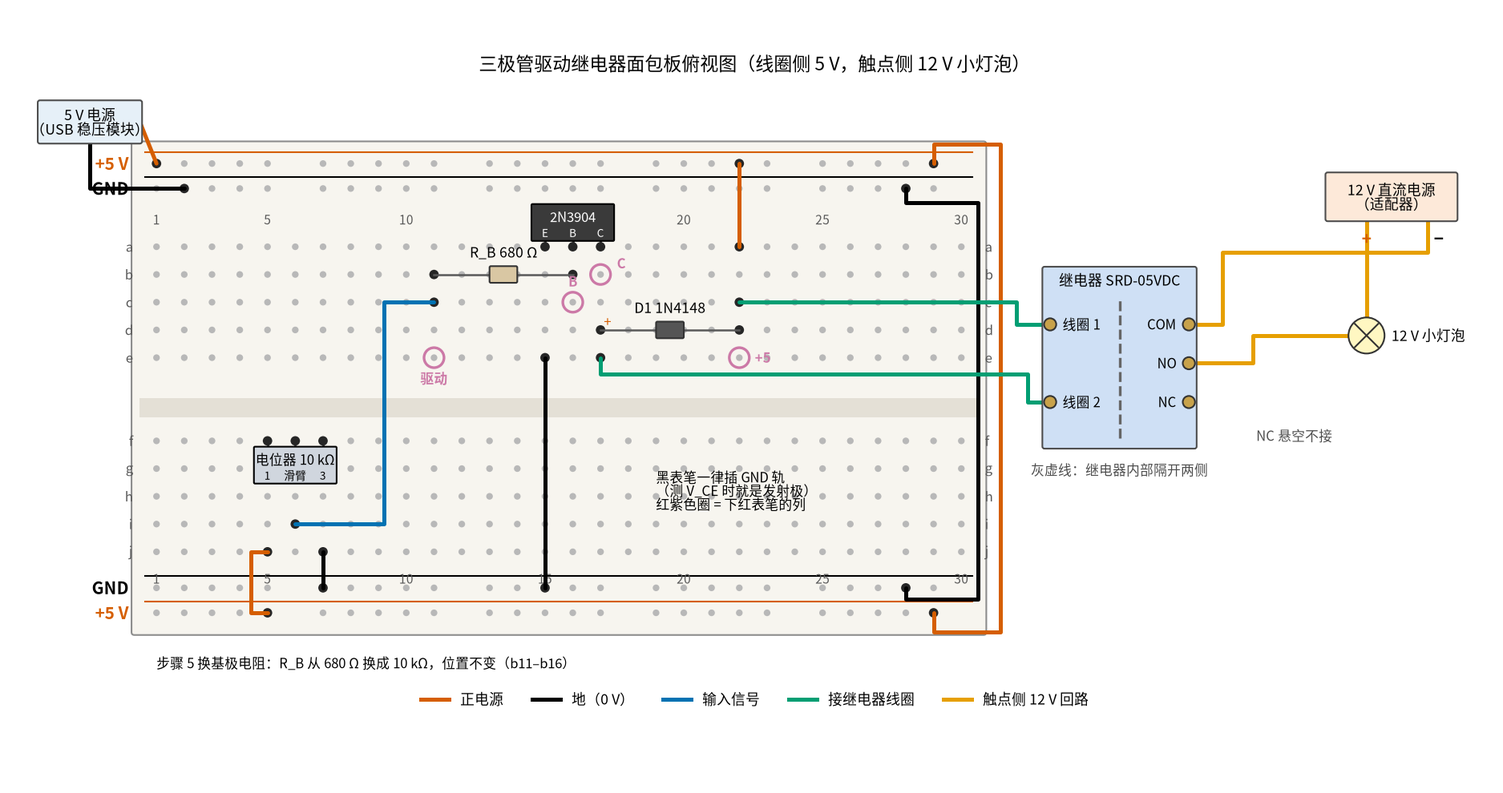
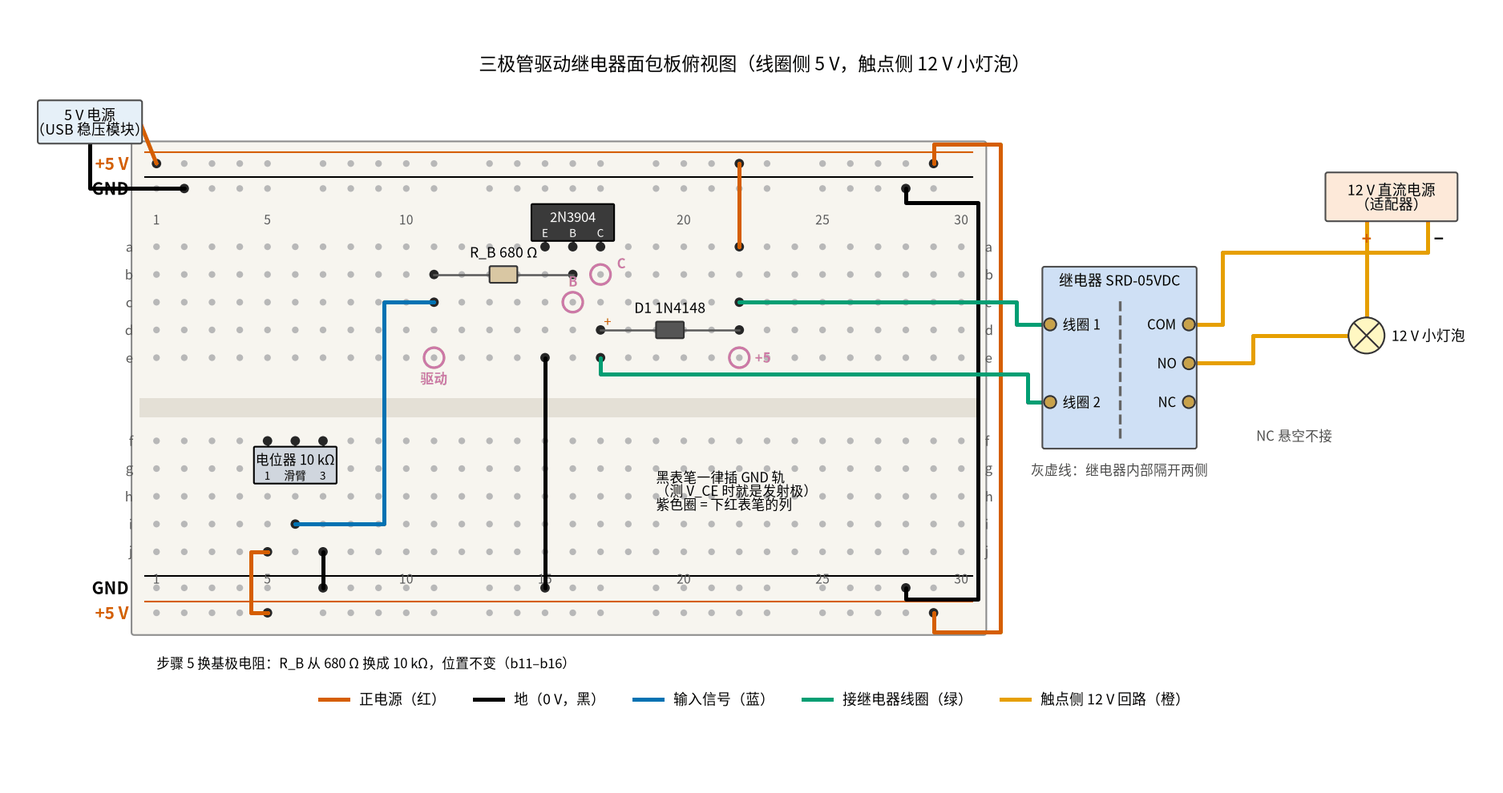
fix: 面包板图图例颜色名统一（红/紫/绿），13 表笔标注 h24

Changed region(s): [[0.2165, 0.8485, 0.7733, 0.9091], [0.4331, 0.6061, 0.5259, 0.6667]]

diff --git a/code/figs/26_figs.py b/code/figs/26_figs.py
@@ -299,7 +299,7 @@ from figstyle import C
 # page4 动手实验篇：面包板俯视图（本节点自带一份小工具，只在本文件内使用）
 # 面包板：列号 1..ncol；上半区 a–e 行、下半区 f–j 行，同一列的 a–e 五个孔连通，f–j 五个孔连通；
 # 上下各两条电源轨（tp/tn 在上，bp/bn 在下），每条轨整条连通（有的面包板轨道在中间断开，正文会提醒）。
-# 导线颜色：正电源 = 橙色，0 V（地）= 黑色，负电源 = 蓝色，信号 = 蓝绿色。
+# 导线颜色：正电源 = 橙色，0 V（地）= 黑色，负电源 = 蓝色，信号 = 绿色。
 # 每条导线、每个元件引脚都登记到「网络」里（并查集），最后用 assert 检查想要的连接都接上了、不该通的没通。
 # ======================================================================
 import matplotlib.patches as mpatches
@@ -483,7 +483,7 @@ class Breadboard:
                     va="bottom" if y < cy else "top", color="k", zorder=8)
 
     def probe(self, h, text, dx=0.35, dy=0.35, ha="left"):
-        """测量点：在孔上画红紫色空心圈并写上名字。"""
+        """测量点：在孔上画紫色空心圈并写上名字。"""
         x, y = self.xy(h)
         self.ax.plot(x, y, "o", ms=9, mfc="none", mec=C["third"], mew=1.6, zorder=9)
         self.ax.text(x + dx, y + dy, text, fontsize=7.5, color=C["third"], ha=ha, va="bottom", zorder=9,
@@ -494,7 +494,7 @@ class Breadboard:
 
     def legend(self, kinds=("pos", "gnd", "neg", "sig")):
         from matplotlib.lines import Line2D
-        names = dict(pos="正电源线（橙）", gnd="0 V 地线（黑）", neg="负电源线（蓝）", sig="信号线（蓝绿）")
+        names = dict(pos="正电源线（橙）", gnd="0 V 地线（黑）", neg="负电源线（蓝）", sig="信号线（绿）")
         hs = [Line2D([], [], color=BB_WIRE[k], lw=2.4, label=names[k]) for k in kinds]
         self.ax.legend(handles=hs, loc="upper center", bbox_to_anchor=(0.5, 0.035), ncol=len(hs), fontsize=8,
                        frameon=False)
@@ -540,7 +540,7 @@ class Breadboard26(Breadboard):
 
     def legend26(self, kinds):
         from matplotlib.lines import Line2D
-        names = dict(pos="+5 V 线（橙）", p33="+3.3 V 线（蓝）", gnd="0 V 地线（黑）", sig="信号线（蓝绿）")
+        names = dict(pos="+5 V 线（橙）", p33="+3.3 V 线（蓝）", gnd="0 V 地线（黑）", sig="信号线（绿）")
         hs = [Line2D([], [], color=BB_WIRE[k], lw=2.4, label=names[k]) for k in kinds]
         self.ax.legend(handles=hs, loc="upper center", bbox_to_anchor=(0.5, 0.035), ncol=len(hs), fontsize=8,
                        frameon=False)

diff --git a/code/figs/24_figs.py b/code/figs/24_figs.py
@@ -277,7 +277,7 @@ class Breadboard:
             ax.text(x0 + i, yb + h * 0.2, nm, color=tc, ha="center", va="center", fontsize=6.5, zorder=8)
 
     def probe(self, h, text, dx=0.0, dy=0.0):
-        """测量点：红紫色圆圈 + 标签。"""
+        """测量点：紫色圆圈 + 标签。"""
         x, y = self.xy(h)
         self.ax.add_patch(Circle((x, y), 0.36, fc="none", ec=fs.C["third"], lw=1.6, zorder=9))
         self.ax.text(x + dx, y + dy, text, color=fs.C["third"], fontsize=8, ha="center", va="center",
@@ -295,7 +295,11 @@ class Breadboard:
 
     def legend(self, loc="lower center"):
         from matplotlib.lines import Line2D
-        hs = [Line2D([], [], color=WIRE[k][0], lw=2.4, label=WIRE[k][1]) for k in WIRE if k in self.used]
+        cname = {fs.C["bad"]: "红", "#000000": "黑", fs.C["third"]: "紫", fs.C["vin"]: "蓝",
+                 fs.C["vout"]: "橙", fs.C["fb"]: "绿", fs.C["cur"]: "天蓝"}
+        def lab(c, t):                                # 图例写成「用途（色名）」；用途里已有括号时并进同一对括号
+            return t[:-1] + f"，{cname[c]}）" if t.endswith("）") else f"{t}（{cname[c]}）"
+        hs = [Line2D([], [], color=WIRE[k][0], lw=2.4, label=lab(*WIRE[k])) for k in WIRE if k in self.used]
         self.ax.legend(handles=hs, loc=loc, ncol=len(hs), fontsize=8.5, frameon=False,
                        bbox_to_anchor=(0.5, -0.01))
 
@@ -364,7 +368,7 @@ def fig_p4_1():
     bb.note(31.9, 7.2, "A = GND（1 脚）\nB = +5 V（2 脚）", va="center")
     bb.note(31.9, -7.2, "C = 0V（3 脚）\nD = +Vo（4 脚）", va="center")
     bb.note(31.9, 0.0, "上下两组轨之间\n没有任何导线：\n能量只经模块里的\n变压器过去", va="center")
-    bb.note(1.0, -12.4, "红紫色圈 = 下表笔的位置；断电时用电阻挡量 A、B 对 C、D，通电后用电压挡量 B–A、D–C", ha="left")
+    bb.note(1.0, -12.4, "紫色圈 = 下表笔的位置；断电时用电阻挡量 A、B 对 C、D，通电后用电压挡量 B–A、D–C", ha="left")
     bb.legend()
     bb.save("24", "24_p4_1_breadboard.png")
     print("[接线] B0505S 1 脚 GND c8、2 脚 Vin c9、3 脚 0V c10、4 脚 +Vo c11；a8→GND 轨，a9→+5 V 轨；"

diff --git a/code/figs/23_figs.py b/code/figs/23_figs.py
@@ -360,7 +360,7 @@ class Breadboard:
             ax.text(x0 + i, yb + h * 0.2, nm, color=tc, ha="center", va="center", fontsize=6.5, zorder=8)
 
     def probe(self, h, text, dx=0.0, dy=0.0):
-        """测量点：红紫色圆圈 + 标签。"""
+        """测量点：紫色圆圈 + 标签。"""
         x, y = self.xy(h)
         self.ax.add_patch(Circle((x, y), 0.36, fc="none", ec=fs.C["third"], lw=1.6, zorder=9))
         self.ax.text(x + dx, y + dy, text, color=fs.C["third"], fontsize=8, ha="center", va="center",
@@ -378,7 +378,11 @@ class Breadboard:
 
     def legend(self, loc="lower center"):
         from matplotlib.lines import Line2D
-        hs = [Line2D([], [], color=WIRE[k][0], lw=2.4, label=WIRE[k][1]) for k in WIRE if k in self.used]
+        cname = {fs.C["bad"]: "红", "#000000": "黑", fs.C["third"]: "紫", fs.C["vin"]: "蓝",
+                 fs.C["vout"]: "橙", fs.C["fb"]: "绿", fs.C["cur"]: "天蓝"}
+        def lab(c, t):                                # 图例写成「用途（色名）」；用途里已有括号时并进同一对括号
+            return t[:-1] + f"，{cname[c]}）" if t.endswith("）") else f"{t}（{cname[c]}）"
+        hs = [Line2D([], [], color=WIRE[k][0], lw=2.4, label=lab(*WIRE[k])) for k in WIRE if k in self.used]
         self.ax.legend(handles=hs, loc=loc, ncol=len(hs), fontsize=8.5, frameon=False,
                        bbox_to_anchor=(0.5, -0.01))
 
@@ -432,7 +436,7 @@ def fig_p4_1():
     bb.probe("j20", "A", dx=-0.8)
     ax.plot([0.6, 30.4], [-0.2, -0.2], ls="--", color="0.4", lw=1.4, zorder=3)
     bb.note(31.6, -2.4, "上下两半之间\n没有任何导线：\n光是唯一的通路\n（隔离）", va="center")
-    bb.note(1.0, -12.4, "红紫色圈 = 下红表笔的列；OUT 对 GND 轨量，P、Q、A 对「电池−」轨量", ha="left")
+    bb.note(1.0, -12.4, "紫色圈 = 下红表笔的列；OUT 对 GND 轨量，P、Q、A 对「电池−」轨量", ha="left")
     bb.legend()
     bb.save("23", "23_p4_1_breadboard.png")
     print("[接线] PC817 1 脚 f20、2 脚 f21、3 脚 e21、4 脚 e20；+9 V→j5，按钮 h5–h9，R_in i9–i14，红 LED g14(+)–g19，h19→h20，j21→电池−；"

diff --git a/code/figs/07_figs.py b/code/figs/07_figs.py
@@ -227,7 +227,7 @@ from figstyle import C  # page4 面包板小工具要用的配色
 # page4 动手实验篇：面包板俯视图（本节点自带一份小工具，只在本文件内使用）
 # 面包板：列号 1..ncol；上半区 a–e 行、下半区 f–j 行，同一列的 a–e 五个孔连通，f–j 五个孔连通；
 # 上下各两条电源轨（tp/tn 在上，bp/bn 在下），每条轨整条连通（有的面包板轨道在中间断开，正文会提醒）。
-# 导线颜色：正电源 = 橙色，0 V（地）= 黑色，负电源 = 蓝色，信号 = 蓝绿色。
+# 导线颜色：正电源 = 橙色，0 V（地）= 黑色，负电源 = 蓝色，信号 = 绿色。
 # 每条导线、每个元件引脚都登记到「网络」里（并查集），最后用 assert 检查想要的连接都接上了、不该通的没通。
 # ======================================================================
 import matplotlib.patches as mpatches
@@ -414,7 +414,7 @@ class Breadboard:
                         va="bottom" if y < cy else "top", color="k", zorder=8)
 
     def probe(self, h, text, dx=0.35, dy=0.35, ha="left"):
-        """测量点：在孔上画红紫色空心圈并写上名字。"""
+        """测量点：在孔上画紫色空心圈并写上名字。"""
         x, y = self.xy(h)
         self.ax.plot(x, y, "o", ms=9, mfc="none", mec=C["third"], mew=1.6, zorder=9)
         self.ax.text(x + dx, y + dy, text, fontsize=7.5, color=C["third"], ha=ha, va="bottom", zorder=9,
@@ -425,7 +425,7 @@ class Breadboard:
 
     def legend(self, kinds=("pos", "gnd", "neg", "sig"), names=None):
         from matplotlib.lines import Line2D
-        names = names or dict(pos="正电源线（橙）", gnd="0 V 地线（黑）", neg="负电源线（蓝）", sig="信号线（蓝绿）")
+        names = names or dict(pos="正电源线（橙）", gnd="0 V 地线（黑）", neg="负电源线（蓝）", sig="信号线（绿）")
         hs = [Line2D([], [], color=BB_WIRE[k], lw=2.4, label=names[k]) for k in kinds]
         self.ax.legend(handles=hs, loc="upper center", bbox_to_anchor=(0.5, 0.035), ncol=len(hs), fontsize=8,
                        frameon=False)

diff --git a/code/figs/06_figs.py b/code/figs/06_figs.py
@@ -183,7 +183,7 @@ print("06_figs OK")
 # page4 动手实验篇：面包板俯视图（本节点自带一份小工具，只在本文件内使用）
 # 面包板：列号 1..ncol；上半区 a–e 行、下半区 f–j 行，同一列的 a–e 五个孔连通，f–j 五个孔连通；
 # 上下各两条电源轨（tp/tn 在上，bp/bn 在下），每条轨整条连通（有的面包板轨道在中间断开，正文会提醒）。
-# 导线颜色：正电源 = 橙色，0 V（地）= 黑色，负电源 = 蓝色，信号 = 蓝绿色。
+# 导线颜色：正电源 = 橙色，0 V（地）= 黑色，负电源 = 蓝色，信号 = 绿色。
 # 每条导线、每个元件引脚都登记到「网络」里（并查集），最后用 assert 检查想要的连接都接上了、不该通的没通。
 # ======================================================================
 import matplotlib.patches as mpatches
@@ -376,7 +376,7 @@ class Breadboard:
                     va="bottom" if y < cy else "top", color="k", zorder=8)
 
     def probe(self, h, text, dx=0.35, dy=0.35, ha="left"):
-        """测量点：在孔上画红紫色空心圈并写上名字。"""
+        """测量点：在孔上画紫色空心圈并写上名字。"""
         x, y = self.xy(h)
         self.ax.plot(x, y, "o", ms=9, mfc="none", mec=C["third"], mew=1.6, zorder=9)
         self.ax.text(x + dx, y + dy, text, fontsize=7.5, color=C["third"], ha=ha, va="bottom", zorder=9,
@@ -387,7 +387,7 @@ class Breadboard:
 
     def legend(self, kinds=("pos", "gnd", "neg", "sig"), names=None):
         from matplotlib.lines import Line2D
-        names = names or dict(pos="正电源线（橙）", gnd="0 V 地线（黑）", neg="负电源线（蓝）", sig="信号线（蓝绿）")
+        names = names or dict(pos="正电源线（橙）", gnd="0 V 地线（黑）", neg="负电源线（蓝）", sig="信号线（绿）")
         hs = [Line2D([], [], color=BB_WIRE[k], lw=2.4, label=names[k]) for k in kinds]
         self.ax.legend(handles=hs, loc="upper center", bbox_to_anchor=(0.5, 0.035), ncol=len(hs), fontsize=8,
                        frameon=False)

diff --git a/code/figs/11_figs.py b/code/figs/11_figs.py
@@ -203,7 +203,7 @@ from figstyle import C
 # page4 动手实验篇：面包板俯视图（本节点自带一份小工具，只在本文件内使用）
 # 面包板：列号 1..ncol；上半区 a–e 行、下半区 f–j 行，同一列的 a–e 五个孔连通，f–j 五个孔连通；
 # 上下各两条电源轨（tp/tn 在上，bp/bn 在下），每条轨整条连通（有的面包板轨道在中间断开，正文会提醒）。
-# 导线颜色：正电源 = 橙色，0 V（地）= 黑色，负电源 = 蓝色，信号 = 蓝绿色。
+# 导线颜色：正电源 = 橙色，0 V（地）= 黑色，负电源 = 蓝色，信号 = 绿色。
 # 每条导线、每个元件引脚都登记到「网络」里（并查集），最后用 assert 检查想要的连接都接上了、不该通的没通。
 # ======================================================================
 import matplotlib.patches as mpatches
@@ -387,7 +387,7 @@ class Breadboard:
                     va="bottom" if y < cy else "top", color="k", zorder=8)
 
     def probe(self, h, text, dx=0.35, dy=0.35, ha="left"):
-        """测量点：在孔上画红紫色空心圈并写上名字。"""
+        """测量点：在孔上画紫色空心圈并写上名字。"""
         x, y = self.xy(h)
         self.ax.plot(x, y, "o", ms=9, mfc="none", mec=C["third"], mew=1.6, zorder=9)
         self.ax.text(x + dx, y + dy, text, fontsize=7.5, color=C["third"], ha=ha, va="bottom", zorder=9,
@@ -398,7 +398,7 @@ class Breadboard:
 
     def legend(self, kinds=("pos", "gnd", "neg", "sig")):
         from matplotlib.lines import Line2D
-        names = dict(pos="正电源线（橙）", gnd="0 V 地线（黑）", neg="负电源线（蓝）", sig="信号线（蓝绿）")
+        names = dict(pos="正电源线（橙）", gnd="0 V 地线（黑）", neg="负电源线（蓝）", sig="信号线（绿）")
         hs = [Line2D([], [], color=BB_WIRE[k], lw=2.4, label=names[k]) for k in kinds]
         self.ax.legend(handles=hs, loc="upper center", bbox_to_anchor=(0.5, 0.035), ncol=len(hs), fontsize=8,
                        frameon=False)

diff --git a/code/figs/12_figs.py b/code/figs/12_figs.py
@@ -168,7 +168,7 @@ from figstyle import C
 # page4 动手实验篇：面包板俯视图（本节点自带一份小工具，只在本文件内使用）
 # 面包板：列号 1..ncol；上半区 a–e 行、下半区 f–j 行，同一列的 a–e 五个孔连通，f–j 五个孔连通；
 # 上下各两条电源轨（tp/tn 在上，bp/bn 在下），每条轨整条连通（有的面包板轨道在中间断开，正文会提醒）。
-# 导线颜色：正电源 = 橙色，0 V（地）= 黑色，负电源 = 蓝色，信号 = 蓝绿色。
+# 导线颜色：正电源 = 橙色，0 V（地）= 黑色，负电源 = 蓝色，信号 = 绿色。
 # 每条导线、每个元件引脚都登记到「网络」里（并查集），最后用 assert 检查想要的连接都接上了、不该通的没通。
 # ======================================================================
 import matplotlib.patches as mpatches
@@ -352,7 +352,7 @@ class Breadboard:
                     va="bottom" if y < cy else "top", color="k", zorder=8)
 
     def probe(self, h, text, dx=0.35, dy=0.35, ha="left"):
-        """测量点：在孔上画红紫色空心圈并写上名字。"""
+        """测量点：在孔上画紫色空心圈并写上名字。"""
         x, y = self.xy(h)
         self.ax.plot(x, y, "o", ms=9, mfc="none", mec=C["third"], mew=1.6, zorder=9)
         self.ax.text(x + dx, y + dy, text, fontsize=7.5, color=C["third"], ha=ha, va="bottom", zorder=9,
@@ -363,7 +363,7 @@ class Breadboard:
 
     def legend(self, kinds=("pos", "gnd", "neg", "sig")):
         from matplotlib.lines import Line2D
-        names = dict(pos="正电源线（橙）", gnd="0 V 地线（黑）", neg="负电源线（蓝）", sig="信号线（蓝绿）")
+        names = dict(pos="正电源线（橙）", gnd="0 V 地线（黑）", neg="负电源线（蓝）", sig="信号线（绿）")
         hs = [Line2D([], [], color=BB_WIRE[k], lw=2.4, label=names[k]) for k in kinds]
         self.ax.legend(handles=hs, loc="upper center", bbox_to_anchor=(0.5, 0.035), ncol=len(hs), fontsize=8,
                        frameon=False)

diff --git a/code/figs/10_figs.py b/code/figs/10_figs.py
@@ -78,7 +78,7 @@ from figstyle import C
 # page4 动手实验篇：面包板俯视图（本节点自带一份小工具，只在本文件内使用）
 # 面包板：列号 1..ncol；上半区 a–e 行、下半区 f–j 行，同一列的 a–e 五个孔连通，f–j 五个孔连通；
 # 上下各两条电源轨（tp/tn 在上，bp/bn 在下），每条轨整条连通（有的面包板轨道在中间断开，正文会提醒）。
-# 导线颜色：正电源 = 橙色，0 V（地）= 黑色，负电源 = 蓝色，信号 = 蓝绿色。
+# 导线颜色：正电源 = 橙色，0 V（地）= 黑色，负电源 = 蓝色，信号 = 绿色。
 # 每条导线、每个元件引脚都登记到「网络」里（并查集），最后用 assert 检查想要的连接都接上了、不该通的没通。
 # ======================================================================
 import matplotlib.patches as mpatches
@@ -262,7 +262,7 @@ class Breadboard:
                     va="bottom" if y < cy else "top", color="k", zorder=8)
 
     def probe(self, h, text, dx=0.35, dy=0.35, ha="left"):
-        """测量点：在孔上画红紫色空心圈并写上名字。"""
+        """测量点：在孔上画紫色空心圈并写上名字。"""
         x, y = self.xy(h)
         self.ax.plot(x, y, "o", ms=9, mfc="none", mec=C["third"], mew=1.6, zorder=9)
         self.ax.text(x + dx, y + dy, text, fontsize=7.5, color=C["third"], ha=ha, va="bottom", zorder=9,
@@ -273,7 +273,7 @@ class Breadboard:
 
     def legend(self, kinds=("pos", "gnd", "neg", "sig")):
         from matplotlib.lines import Line2D
-        names = dict(pos="正电源线（橙）", gnd="0 V 地线（黑）", neg="负电源线（蓝）", sig="信号线（蓝绿）")
+        names = dict(pos="正电源线（橙）", gnd="0 V 地线（黑）", neg="负电源线（蓝）", sig="信号线（绿）")
         hs = [Line2D([], [], color=BB_WIRE[k], lw=2.4, label=names[k]) for k in kinds]
         self.ax.legend(handles=hs, loc="upper center", bbox_to_anchor=(0.5, 0.035), ncol=len(hs), fontsize=8,
                        frameon=False)

diff --git a/code/figs/05_figs.py b/code/figs/05_figs.py
@@ -139,7 +139,7 @@ print("05_figs OK")
 # page4 动手实验篇：面包板俯视图（本节点自带一份小工具，只在本文件内使用）
 # 面包板：列号 1..ncol；上半区 a–e 行、下半区 f–j 行，同一列的 a–e 五个孔连通，f–j 五个孔连通；
 # 上下各两条电源轨（tp/tn 在上，bp/bn 在下），每条轨整条连通（有的面包板轨道在中间断开，正文会提醒）。
-# 导线颜色：正电源 = 橙色，0 V（地）= 黑色，负电源 = 蓝色，信号 = 蓝绿色。
+# 导线颜色：正电源 = 橙色，0 V（地）= 黑色，负电源 = 蓝色，信号 = 绿色。
 # 每条导线、每个元件引脚都登记到「网络」里（并查集），最后用 assert 检查想要的连接都接上了、不该通的没通。
 # ======================================================================
 import matplotlib.patches as mpatches
@@ -332,7 +332,7 @@ class Breadboard:
                     va="bottom" if y < cy else "top", color="k", zorder=8)
 
     def probe(self, h, text, dx=0.35, dy=0.35, ha="left"):
-        """测量点：在孔上画红紫色空心圈并写上名字。"""
+        """测量点：在孔上画紫色空心圈并写上名字。"""
         x, y = self.xy(h)
         self.ax.plot(x, y, "o", ms=9, mfc="none", mec=C["third"], mew=1.6, zorder=9)
         self.ax.text(x + dx, y + dy, text, fontsize=7.5, color=C["third"], ha=ha, va="bottom", zorder=9,
@@ -343,7 +343,7 @@ class Breadboard:
 
     def legend(self, kinds=("pos", "gnd", "neg", "sig")):
         from matplotlib.lines import Line2D
-        names = dict(pos="正电源线（橙）", gnd="0 V 地线（黑）", neg="负电源线（蓝）", sig="信号线（蓝绿）")
+        names = dict(pos="正电源线（橙）", gnd="0 V 地线（黑）", neg="负电源线（蓝）", sig="信号线（绿）")
         hs = [Line2D([], [], color=BB_WIRE[k], lw=2.4, label=names[k]) for k in kinds]
         self.ax.legend(handles=hs, loc="upper center", bbox_to_anchor=(0.5, 0.035), ncol=len(hs), fontsize=8,
                        frameon=False)

diff --git a/code/figs/21_figs.py b/code/figs/21_figs.py
@@ -336,7 +336,7 @@ class Breadboard:
             ax.text(x0 + i, yb + h * 0.2, nm, color=tc, ha="center", va="center", fontsize=6.5, zorder=8)
 
     def probe(self, h, text, dx=0.0, dy=0.0):
-        """测量点：红紫色圆圈 + 标签。"""
+        """测量点：紫色圆圈 + 标签。"""
         x, y = self.xy(h)
         self.ax.add_patch(Circle((x, y), 0.36, fc="none", ec=fs.C["third"], lw=1.6, zorder=9))
         self.ax.text(x + dx, y + dy, text, color=fs.C["third"], fontsize=8, ha="center", va="center",
@@ -354,7 +354,11 @@ class Breadboard:
 
     def legend(self, loc="lower center"):
         from matplotlib.lines import Line2D
-        hs = [Line2D([], [], color=WIRE[k][0], lw=2.4, label=WIRE[k][1]) for k in WIRE if k in self.used]
+        cname = {fs.C["bad"]: "红", "#000000": "黑", fs.C["third"]: "紫", fs.C["vin"]: "蓝",
+                 fs.C["vout"]: "橙", fs.C["fb"]: "绿", fs.C["cur"]: "天蓝"}
+        def lab(c, t):                                # 图例写成「用途（色名）」；用途里已有括号时并进同一对括号
+            return t[:-1] + f"，{cname[c]}）" if t.endswith("）") else f"{t}（{cname[c]}）"
+        hs = [Line2D([], [], color=WIRE[k][0], lw=2.4, label=lab(*WIRE[k])) for k in WIRE if k in self.used]
         self.ax.legend(handles=hs, loc=loc, ncol=len(hs), fontsize=8.5, frameon=False,
                        bbox_to_anchor=(0.5, -0.01))
 
@@ -395,7 +399,7 @@ def fig_p4_1():
     bb.probe("c15", "G", dx=-0.8, dy=0.0)
     bb.probe("e16", "D", dx=0.75, dy=0.0)
     bb.probe("b21", "A", dx=0.75)
-    bb.note(20.5, -3.0, "黑表笔一律插 GND 轨\n（测 V_DS 时就是源极）\n红紫色圈 = 下红表笔的列", va="center")
+    bb.note(20.5, -3.0, "黑表笔一律插 GND 轨\n（测 V_DS 时就是源极）\n紫色圈 = 下红表笔的列", va="center")
     bb.note(1.0, -9.6, "步骤 10 慢放电实验：R_GS 换 1 MΩ，再在 d15 与 GND 之间并 10 µF；拔掉 c11 那头的蓝线后计时", ha="left")
     bb.legend()
     bb.save("21", "21_p4_1_breadboard.png")

diff --git a/code/figs/22_figs.py b/code/figs/22_figs.py
@@ -310,7 +310,7 @@ class Breadboard:
             ax.text(x0 + i, yb + h * 0.2, nm, color=tc, ha="center", va="center", fontsize=6.5, zorder=8)
 
     def probe(self, h, text, dx=0.0, dy=0.0):
-        """测量点：红紫色圆圈 + 标签。"""
+        """测量点：紫色圆圈 + 标签。"""
         x, y = self.xy(h)
         self.ax.add_patch(Circle((x, y), 0.36, fc="none", ec=fs.C["third"], lw=1.6, zorder=9))
         self.ax.text(x + dx, y + dy, text, color=fs.C["third"], fontsize=8, ha="center", va="center",
@@ -328,7 +328,11 @@ class Breadboard:
 
     def legend(self, loc="lower center"):
         from matplotlib.lines import Line2D
-        hs = [Line2D([], [], color=WIRE[k][0], lw=2.4, label=WIRE[k][1]) for k in WIRE if k in self.used]
+        cname = {fs.C["bad"]: "红", "#000000": "黑", fs.C["third"]: "紫", fs.C["vin"]: "蓝",
+                 fs.C["vout"]: "橙", fs.C["fb"]: "绿", fs.C["cur"]: "天蓝"}
+        def lab(c, t):                                # 图例写成「用途（色名）」；用途里已有括号时并进同一对括号
+            return t[:-1] + f"，{cname[c]}）" if t.endswith("）") else f"{t}（{cname[c]}）"
+        hs = [Line2D([], [], color=WIRE[k][0], lw=2.4, label=lab(*WIRE[k])) for k in WIRE if k in self.used]
         self.ax.legend(handles=hs, loc=loc, ncol=len(hs), fontsize=8.5, frameon=False,
                        bbox_to_anchor=(0.5, -0.01))
 
@@ -397,7 +401,7 @@ def fig_p4_1():
     bb.probe("c16", "B", dx=0.0, dy=0.75)
     bb.probe("b17", "C", dx=0.75, dy=0.4)
     bb.probe("e22", "+5", dx=0.85)
-    bb.note(19.0, -3.2, "黑表笔一律插 GND 轨\n（测 V_CE 时就是发射极）\n红紫色圈 = 下红表笔的列", va="center")
+    bb.note(19.0, -3.2, "黑表笔一律插 GND 轨\n（测 V_CE 时就是发射极）\n紫色圈 = 下红表笔的列", va="center")
     bb.note(1.0, -9.6, "步骤 5 换基极电阻：R_B 从 680 Ω 换成 10 kΩ，位置不变（b11–b16）", ha="left")
     bb.legend()
     bb.save("22", "22_p4_1_breadboard.png")

diff --git a/code/figs/04_figs.py b/code/figs/04_figs.py
@@ -235,7 +235,7 @@ def bb_board(cols=30, rails=None, figsize=(10, 5.6)):
 
 
 def bb_wire(ax, a, b, kind="sig", via=()):
-    """跳线：kind 取 pos/gnd/neg/sig/out（红/黑/红紫/蓝/橙）。via=[(x, y), ...] 时按这些拐点折线走，避免压住元件。"""
+    """跳线：kind 取 pos/gnd/neg/sig/out（红/黑/紫/蓝/橙）。via=[(x, y), ...] 时按这些拐点折线走，避免压住元件。"""
     pts = [bb_xy(a)] + list(via) + [bb_xy(b)]
     xs, ys = zip(*pts)
     ax.plot(xs, ys, color=BB_WIRE[kind], lw=2.4, solid_capstyle="round", zorder=3)
@@ -535,8 +535,8 @@ def p4_1_breadboard():
     bb_probe(ax, "i20", "②", dx=0.75, dy=0.6)
     bb_probe(ax, "h14", "③", dx=-0.75, dy=0.6)
     bb_probe(ax, "h16", "④", dx=0.0, dy=0.95)
-    bb_legend(ax, [("pos", "红：V+"), ("neg", "红紫：V−"), ("gnd", "黑：M")], x=5.4, y=-4.7)
-    bb_legend(ax, [("sig", "蓝：输入"), ("fb", "蓝绿：反馈"), ("out", "橙：1.5 V")], x=5.4, y=-5.4)
+    bb_legend(ax, [("pos", "红：V+"), ("neg", "紫：V−"), ("gnd", "黑：M")], x=5.4, y=-4.7)
+    bb_legend(ax, [("sig", "蓝：输入"), ("fb", "绿：反馈"), ("out", "橙：1.5 V")], x=5.4, y=-5.4)
     print("[图 04-p4-1] LM358 1～4 脚 f14～f17、8～5 脚 e14～e17；8 脚→V+，4 脚→V−；另一半 7、6 脚短接、5 脚→M；"
           "电位器 A g3/g4/g5（j3 接电池 +，j5→M），滑动端 i4→i9；R1 h9–h12；j12→j15 接 2 脚；R2 i12–i14；"
           "电位器 B c3/c4/c5（e3→f3 取 1.5 V，a5→M），滑动端 d4→d20、e20→f20；R3 g16–g20；R4 i16–i19；j19→M（第 13、14 步换 10k）；"
